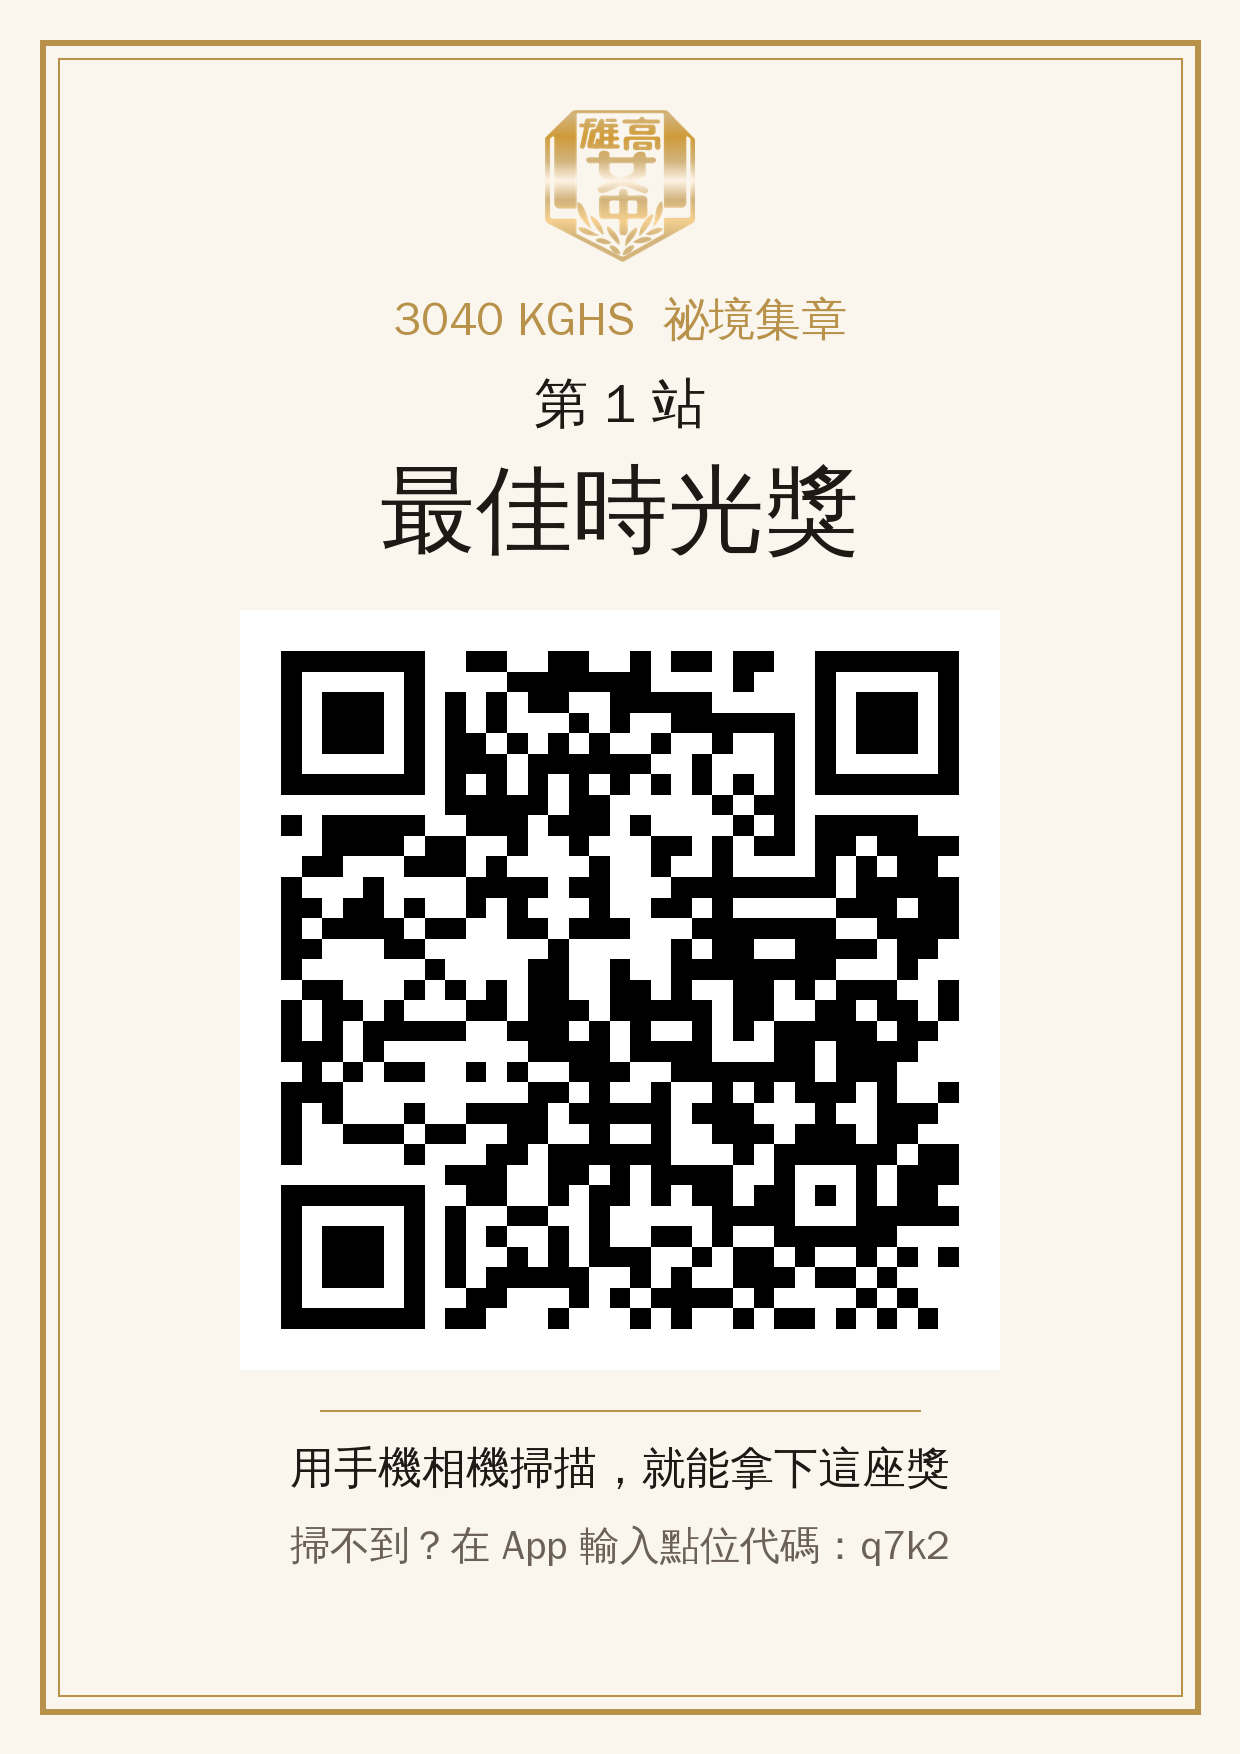
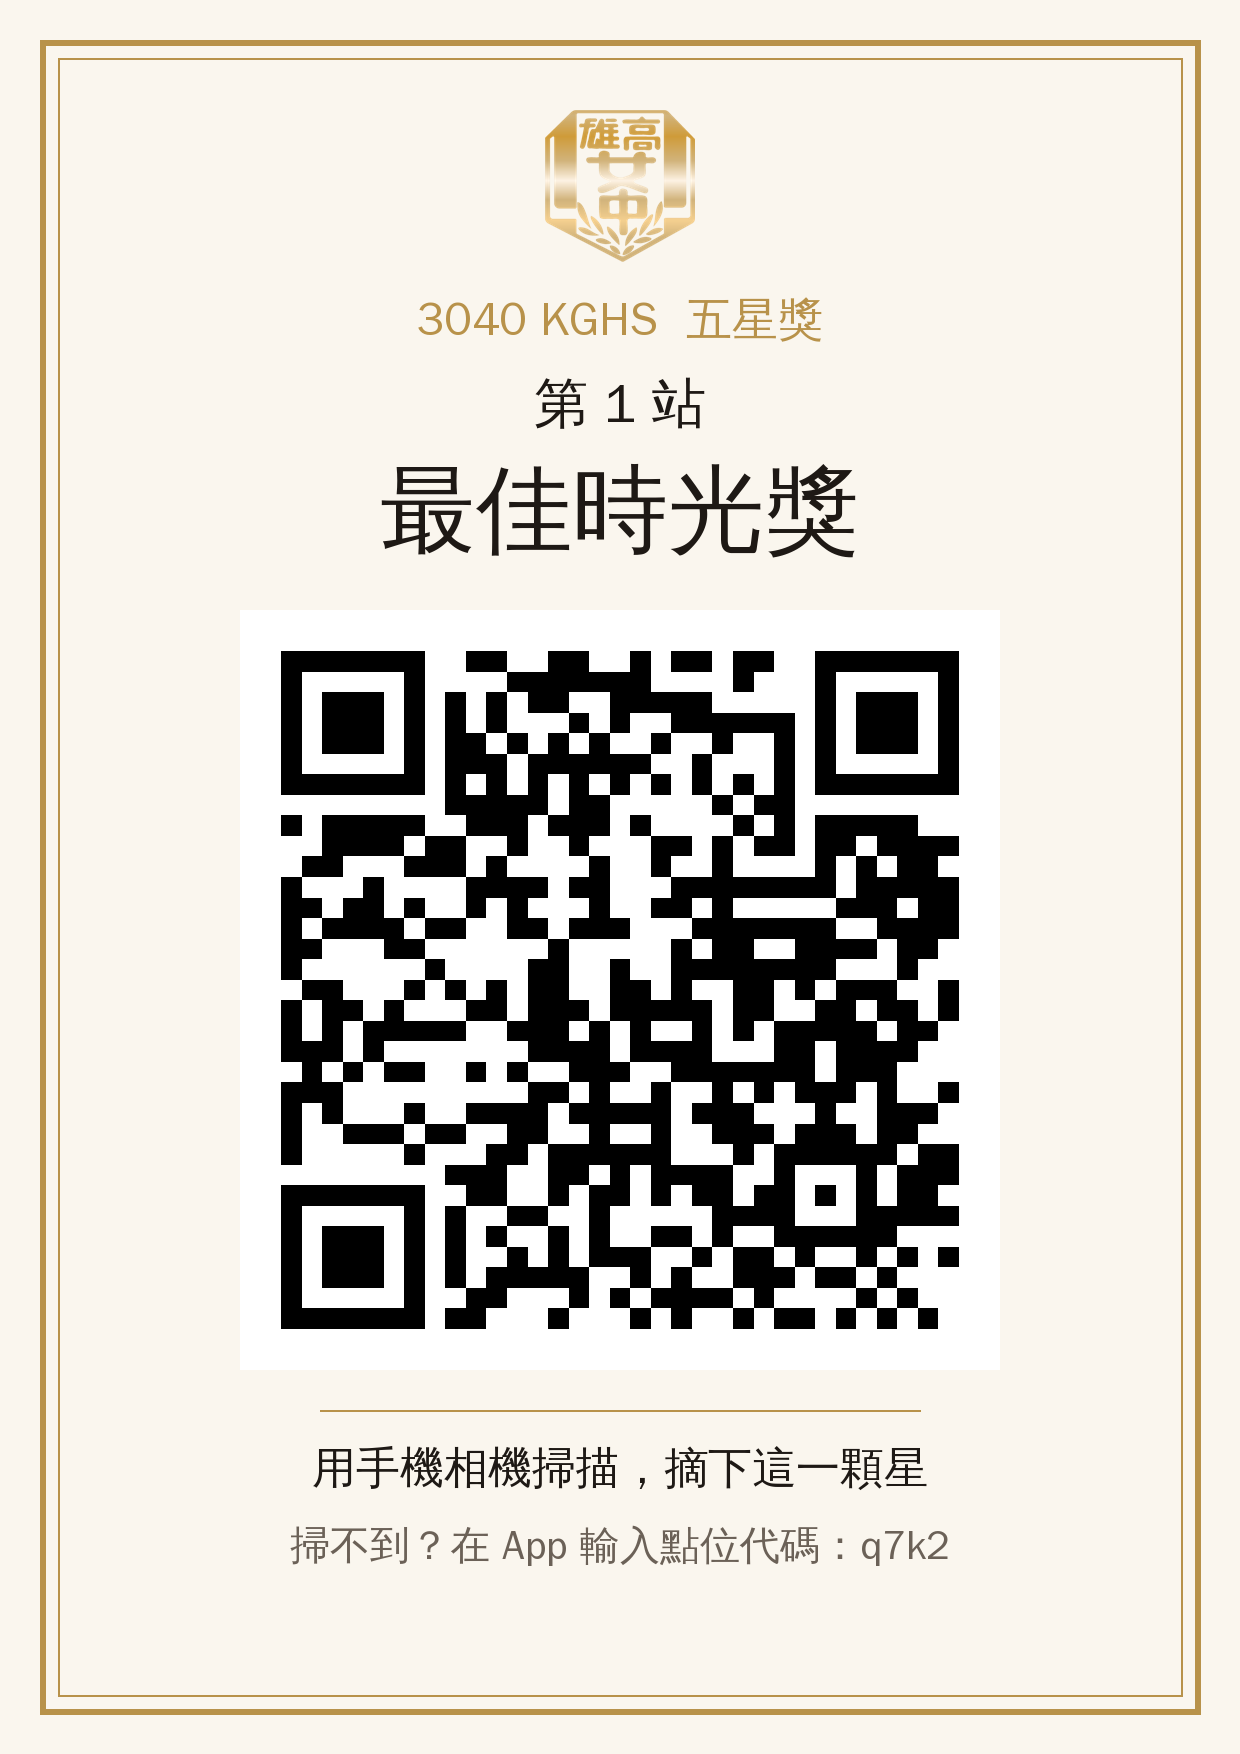
改成「五星獎」：開場改為女明星紅毯受訪，提示卡文字改寫
- 開場與結尾劇情改成記者訪問入圍女星，請她用照片回憶校園
- 五座獎改稱五星獎（已摘 n 顆星、摘齊五星），入場券、投影牆、QR 海報同步
- 五張提示卡的謎題與提示換新說法
- 還沒報名時開場的稱呼改為「大明星」

Claude-Session: https://claude.ai/code/session_01VouWjXPYsq8nRvDbBhYCw6

Changed region(s): [[0.3371, 0.1539, 0.6742, 0.2155], [0.2452, 0.8005, 0.4903, 0.862], [0.521, 0.8005, 0.7661, 0.862]]

diff --git a/public/index.html b/public/index.html
@@ -548,7 +548,7 @@ body.busy{overflow:hidden}
       <div class="cv-content">
         <p class="cv-year" id="cvYear">2026 雄女校友回娘家</p>
         <div class="cv-crest"><svg class="cv-laurel l" viewBox="0 0 60 140" aria-hidden="true"><g fill="none" stroke="#C9A158" stroke-width="2.2" stroke-linecap="round"><path d="M46 136C18 112 10 70 30 8"/></g><g fill="#C9A158"><ellipse cx="30" cy="16" rx="4.2" ry="10" transform="rotate(10 30 16)"/><ellipse cx="22" cy="30" rx="4.2" ry="10" transform="rotate(-30 22 30)"/><ellipse cx="36" cy="32" rx="4.2" ry="10" transform="rotate(40 36 32)"/><ellipse cx="17" cy="48" rx="4.2" ry="10" transform="rotate(-38 17 48)"/><ellipse cx="31" cy="52" rx="4.2" ry="10" transform="rotate(38 31 52)"/><ellipse cx="15" cy="68" rx="4.2" ry="10" transform="rotate(-42 15 68)"/><ellipse cx="29" cy="72" rx="4.2" ry="10" transform="rotate(34 29 72)"/><ellipse cx="17" cy="88" rx="4.2" ry="10" transform="rotate(-46 17 88)"/><ellipse cx="30" cy="92" rx="4.2" ry="10" transform="rotate(30 30 92)"/><ellipse cx="22" cy="108" rx="4.2" ry="10" transform="rotate(-52 22 108)"/><ellipse cx="35" cy="110" rx="4.2" ry="10" transform="rotate(24 35 110)"/><ellipse cx="31" cy="124" rx="4.2" ry="10" transform="rotate(-60 31 124)"/></g></svg><svg class="cv-laurel r" viewBox="0 0 60 140" aria-hidden="true"><g fill="none" stroke="#C9A158" stroke-width="2.2" stroke-linecap="round"><path d="M46 136C18 112 10 70 30 8"/></g><g fill="#C9A158"><ellipse cx="30" cy="16" rx="4.2" ry="10" transform="rotate(10 30 16)"/><ellipse cx="22" cy="30" rx="4.2" ry="10" transform="rotate(-30 22 30)"/><ellipse cx="36" cy="32" rx="4.2" ry="10" transform="rotate(40 36 32)"/><ellipse cx="17" cy="48" rx="4.2" ry="10" transform="rotate(-38 17 48)"/><ellipse cx="31" cy="52" rx="4.2" ry="10" transform="rotate(38 31 52)"/><ellipse cx="15" cy="68" rx="4.2" ry="10" transform="rotate(-42 15 68)"/><ellipse cx="29" cy="72" rx="4.2" ry="10" transform="rotate(34 29 72)"/><ellipse cx="17" cy="88" rx="4.2" ry="10" transform="rotate(-46 17 88)"/><ellipse cx="30" cy="92" rx="4.2" ry="10" transform="rotate(30 30 92)"/><ellipse cx="22" cy="108" rx="4.2" ry="10" transform="rotate(-52 22 108)"/><ellipse cx="35" cy="110" rx="4.2" ry="10" transform="rotate(24 35 110)"/><ellipse cx="31" cy="124" rx="4.2" ry="10" transform="rotate(-60 31 124)"/></g></svg><h1 class="cv-title">雄女<br>祕境集章</h1></div>
-        <p class="cv-sub">頒獎典禮</p>
+        <p class="cv-sub">五星獎頒獎典禮</p>
         <div class="cv-rule"></div>
         <p class="cv-awards" id="cvAwards"></p>
         <p class="cv-date" id="cvDate"></p>
@@ -562,7 +562,7 @@ body.busy{overflow:hidden}
     <div class="cover">
       <p class="hello">2026 雄女校友回娘家</p>
       <h1>雄女<br>祕境集章</h1>
-      <p class="lede">今晚有一場只屬於妳們的頒獎典禮。五座獎藏在校園五個角落，找到它、拍一張照、留一句話，就拿下這座獎。集滿五座，就能領到典禮入場券。</p>
+      <p class="lede">今晚，妳是「五星獎」的入圍女星。五顆星藏在校園五個角落，找到它、拍一張照、留一句得獎感言，就摘下一顆星。摘齊五星，就能領到典禮入場券。</p>
       <div class="joincard">
         <label class="field"><span>怎麼稱呼妳？</span><input type="text" id="jName" maxlength="12" autocomplete="nickname" placeholder="例如：小美"></label>
         <label class="field"><span>妳是第幾屆畢業？</span><input type="number" id="jCls" inputmode="numeric" min="1" max="200" placeholder="例如：45"></label>
@@ -787,29 +787,31 @@ const CONFIG = {
   // 提示卡：riddle 是正面的謎題，hint 是翻到背面的提示；name 是找到之後才顯示的地點名稱；id 與 key 會寫進現場 QR Code 網址
   // presets 是「不想拍照」時可以選的照片（放在 assets/presets 資料夾）
   spots: [
-    { id:'s1', award:'最佳時光獎', key:'q7k2', stamp:'門', name:'校門口', riddle:'鐘聲迴響之地', hint:'每天清晨，大家都從這裡走進雄女。',
+    { id:'s1', award:'最佳時光獎', key:'q7k2', stamp:'門', name:'校門口', riddle:'晨光報到處', hint:'每天早上第一個打招呼的地方，教官和糾察隊都在這裡等妳。',
       presets:['assets/presets/s1-1.jpg','assets/presets/s1-old.jpg'] },
-    { id:'s2', award:'最佳夢想獎', key:'m3x9', stamp:'科', name:'榕園', riddle:'科研繁茂之地', hint:'實驗中心旁那片榕樹綠蔭，以前有圓桌可以坐。',
+    { id:'s2', award:'最佳夢想獎', key:'m3x9', stamp:'科', name:'榕園', riddle:'綠蔭下的實驗室', hint:'實驗中心旁，老榕樹撐開一片綠蔭；圓桌邊吃過便當，也聊過夢想。',
       presets:['assets/presets/s2-1.jpg','assets/presets/s2-old.jpg'] },
-    { id:'s3', award:'最佳書香獎', key:'t8p4', stamp:'書', name:'圖書館', riddle:'書香盤繞之地', hint:'找找那座迴旋梯，書都住在那裡。',
+    { id:'s3', award:'最佳書香獎', key:'t8p4', stamp:'書', name:'圖書館', riddle:'旋轉而上的書海', hint:'沿著那座迴旋梯一路往上，晚自習的燈常常亮到很晚。',
       presets:['assets/presets/s3-1.jpg','assets/presets/s3-2.jpg','assets/presets/s3-old.jpg'] },
-    { id:'s4', award:'最佳人氣獎', key:'r2w6', stamp:'活', name:'學生活動中心', riddle:'熱鬧非凡之地', hint:'演講、社團、比賽都在這裡上演。',
+    { id:'s4', award:'最佳人氣獎', key:'r2w6', stamp:'活', name:'學生活動中心', riddle:'掌聲最響的舞台', hint:'社團成發、合唱比賽、週會演講，尖叫和掌聲都在這裡。',
       presets:['assets/presets/s4-1.jpg','assets/presets/s4-old.jpg'] },
-    { id:'s5', award:'最佳青春熱血獎', key:'h5n1', stamp:'體', name:'體育館', riddle:'青春熱血之地', hint:'流汗、打球、上體育課的地方。',
+    { id:'s5', award:'最佳青春熱血獎', key:'h5n1', stamp:'體', name:'體育館', riddle:'汗水飛揚的殿堂', hint:'排球、體育課、儀隊練習，青春的汗水都灑在這片地板上。',
       presets:['assets/presets/s5-1.jpg','assets/presets/s5-old.jpg'] }
   ],
   // 開場與結尾劇情：一個 { } 是一頁；icon 用貼紙代號（trophy、reel、ticket、filmcam、gstar、rose、bell、camera…）；{name} 會換成玩家的稱呼
   story: {
     intro: [
-      { icon:'reel', text:'今晚的雄女，\n要辦一場只屬於妳們的頒獎典禮。' },
-      { icon:'ticket', text:'校園裡藏著五座獎，\n每一座都藏在妳們熟悉的地方：\n校門、圖書館、體育館……' },
-      { icon:'filmcam', text:'找到它們，\n拍一張現在的妳，\n留一句得獎感言。' },
-      { icon:'gstar', text:'不想入鏡也沒關係。\n當一次攝影師，\n拍下妳心中它最美的樣子。' },
-      { icon:'trophy', text:'五座獎都拿到，\n典禮的入場券\n就會交到妳手上。' }
+      { icon:'reel', text:'紅毯上閃光燈此起彼落，\n今晚的主角，\n是剛走進校門的妳。' },
+      { icon:'mic', text:'記者：「{name}，歡迎回到雄女！\n聽說妳是今晚\n「五星獎」的入圍女星？」' },
+      { icon:'filmcam', text:'「離開校園這麼多年，\n還記得當年最常待的地方嗎？\n校門口、圖書館、體育館……」' },
+      { icon:'camera', text:'「今晚不用多說，\n請用照片告訴我們：\n回到那個角落，拍下現在的妳。」' },
+      { icon:'gstar', text:'「五個角落藏著五顆星。\n每找到一處、拍一張照、\n說一句得獎感言，就摘下一顆。」' },
+      { icon:'ticket', text:'「摘齊五星，\n典禮的入場券就是妳的。\n準備好了嗎？」' }
     ],
-    introEnd: '進場',
+    introEnd: '走上紅毯',
     ending: [
-      { icon:'trophy', text:'校門、榕園、圖書館、\n活動中心、體育館，\n五座獎都頒給妳了。' },
+      { icon:'gstar', text:'校門、榕園、圖書館、\n活動中心、體育館，\n五顆星都被妳摘下了。' },
+      { icon:'mic', text:'記者：「最後一個問題，\n回到這裡，\n是什麼感覺？」' },
       { icon:'filmcam', text:'妳拍下的照片和得獎感言，\n今晚會在典禮現場放映。' },
       { icon:'rose', text:'{name}，\n歡迎回家。' }
     ],
@@ -948,7 +950,7 @@ function scanSpot(id,k){
   S.scanned[id]=true; save();
   show('home'); renderHome();
   try{ sfx.stamp(); }catch(_){}
-  modal(`<div class="unlock-stamp">${s.stamp}</div>${s.award?`<p class="unlock-award">${esc(s.award)}</p>`:''}<h2 style="text-align:center">${again?'這座獎妳已經拿到了':'入圍了！'}</h2><p style="text-align:center">「${esc(s.name)}」${again?'要重拍一次嗎？':'找到了。拍一張照、留一句感言，就能拿下這座獎'}</p>`,
+  modal(`<div class="unlock-stamp">${s.stamp}</div>${s.award?`<p class="unlock-award">${esc(s.award)}</p>`:''}<h2 style="text-align:center">${again?'這顆星妳已經摘下了':'入圍了！'}</h2><p style="text-align:center">「${esc(s.name)}」${again?'要重拍一次嗎？':'找到了。拍一張照、留一句感言，就能摘下這顆星'}</p>`,
     [{label: again ? '重拍這一站' : '開始拍照', fn:()=>openEditor(id)}, {label:'等一下再拍', soft:true}]);
   return true;
 }
@@ -1246,7 +1248,7 @@ let ST=null;
 const stickerUri=k=>(STICKERS.find(s=>s.k===k)||{}).uri;
 function playStory(which, done){ ST={ pages:CONFIG.story[which], end:CONFIG.story[which+'End'], i:0, done }; show('story'); renderScene(); }
 function renderScene(){
-  const pg=ST.pages[ST.i], name=S ? S.player.name : '測試校友';
+  const pg=ST.pages[ST.i], name=S ? S.player.name : '大明星';
   const text=esc(pg.text).replace(/\{name\}/g, `<span class="who">${esc(name)}</span>`).replace(/\n/g,'<br>');
   const sc=$('#scene'); sc.innerHTML=`${pg.icon && stickerUri(pg.icon) ? `<img src="${stickerUri(pg.icon)}" alt="">` : ''}<p>${text}</p>`;
   sc.style.animation='none'; void sc.offsetWidth; sc.style.animation='';
@@ -1269,14 +1271,14 @@ function renderHome(){
     <header class="pass">
       <div class="who">${esc(p.name)}</div>
       <div class="count">${n}<span> / ${spots.length}</span></div>
-      <div class="meta">第 ${esc(p.cls)} 屆　已獲 ${n} 座獎</div>
+      <div class="meta">第 ${esc(p.cls)} 屆　已摘 ${n} 顆星</div>
     </header>
     <div class="syncbar" id="syncBar" hidden><span id="syncText"></span><button class="btn soft small" data-act="retry">立即重試</button></div>
     <div class="who-row"><span class="tiny" style="margin:0">找回進度用：末三碼 ${esc(p.l3)}</span><button class="btn soft small" data-act="logout">不是妳？</button></div>
-    <div class="stamps" aria-label="已獲 ${n} / ${spots.length} 座獎">${spots.map(s=>`<div class="slot ${S.done[s.id]?'on':''} ${justStamped===s.id?'thump':''}">${s.stamp}</div>`).join('')}</div>
+    <div class="stamps" aria-label="已摘 ${n} / ${spots.length} 顆星">${spots.map(s=>`<div class="slot ${S.done[s.id]?'on':''} ${justStamped===s.id?'thump':''}">${s.stamp}</div>`).join('')}</div>
     <section class="clues" aria-label="提示卡"><h2 class="clues-h">提示卡<span>點一下翻面</span></h2><div class="clue-row">${spots.map(clueHTML).join('')}</div></section>
-    ${n===0 ? `<section class="howto"><h2>怎麼玩</h2><ol><li>翻開上面的提示卡，猜猜五個地點在校園哪裡</li><li>走到那裡，點下方的「${ic('scan')} 掃描 QR Code」，對準牆上的圖案</li><li>拍自己、拍合照，或當攝影師拍下懷念的風景，再留一句得獎感言，就拿下這座獎</li></ol><button class="linkbtn" data-act="intro">再看一次開場故事</button></section>` : ''}
-    ${n===spots.length ? `<section class="unlock"><h2>五座獎都拿到了</h2><p>典禮入場券準備好了，聚餐地點寫在裡面。</p><button class="btn white wide" data-act="invite">打開入場券</button><p class="center"><button class="linkbtn" style="color:#fff" data-act="ending">重看結尾故事</button></p></section>` : ''}
+    ${n===0 ? `<section class="howto"><h2>怎麼玩</h2><ol><li>翻開上面的提示卡，猜猜五個地點在校園哪裡</li><li>走到那裡，點下方的「${ic('scan')} 掃描 QR Code」，對準牆上的圖案</li><li>拍自己、拍合照，或當攝影師拍下懷念的風景，再留一句得獎感言，就摘下這一顆星</li></ol><button class="linkbtn" data-act="intro">再看一次開場故事</button></section>` : ''}
+    ${n===spots.length ? `<section class="unlock"><h2>五星獎全部到手</h2><p>典禮入場券準備好了，聚餐地點寫在裡面。</p><button class="btn white wide" data-act="invite">打開入場券</button><p class="center"><button class="linkbtn" style="color:#fff" data-act="ending">重看結尾故事</button></p></section>` : ''}
     <section class="spots">${spots.map(spotHTML).join('')}</section>`;
   justStamped=null; syncBanner();
 }
@@ -1291,7 +1293,7 @@ function clueHTML(s,i){
 function spotHTML(s){
   const d=S.done[s.id], sc=S.scanned[s.id], known=d||sc;
   let foot;
-  if(d) foot=`<div class="done"><img src="${d.thumb||d.img}" alt="在${esc(s.name)}拍的照片"><div><p class="status ok">已得獎　<span class="syncst ${d.sync||'sent'}">${({queued:'等待上傳',sending:'上傳中…',sent:'已上傳 '+ic('check'),failed:'上傳失敗，請洽工作人員'})[d.sync||'sent']}</span></p>${d.kind==='scene'?`<p class="work">${ic('camera')} 攝影作品${d.title?`《${esc(d.title)}》`:''}</p>`:''}${d.kind==='note'?`<p class="work">${ic('note')} 便利貼祝福</p>`:''}${d.hand?`<img class="said-hand" src="${d.hand}" alt="手寫留言">`:`<p class="said">「${esc(d.msg)}」</p>`}<button class="btn soft small" data-act="shoot" data-id="${s.id}">重拍</button></div></div>`;
+  if(d) foot=`<div class="done"><img src="${d.thumb||d.img}" alt="在${esc(s.name)}拍的照片"><div><p class="status ok">已摘星　<span class="syncst ${d.sync||'sent'}">${({queued:'等待上傳',sending:'上傳中…',sent:'已上傳 '+ic('check'),failed:'上傳失敗，請洽工作人員'})[d.sync||'sent']}</span></p>${d.kind==='scene'?`<p class="work">${ic('camera')} 攝影作品${d.title?`《${esc(d.title)}》`:''}</p>`:''}${d.kind==='note'?`<p class="work">${ic('note')} 便利貼祝福</p>`:''}${d.hand?`<img class="said-hand" src="${d.hand}" alt="手寫留言">`:`<p class="said">「${esc(d.msg)}」</p>`}<button class="btn soft small" data-act="shoot" data-id="${s.id}">重拍</button></div></div>`;
   else if(sc) foot=`<p class="status ok">找到了！可以拍照了</p><button class="btn wide" data-act="shoot" data-id="${s.id}">去拍照</button>`;
   else foot=`<button class="btn soft wide scanbtn" data-sc="open">${ic('scan')} 到了！掃描 QR Code</button>`;
   return `<article class="spot ${d?'won':''}">${s.award?`<p class="award">${esc(s.award)}</p>`:''}<div class="head"><span class="mark">${s.stamp}</span><h3 class="${known?'':'unknown'}">${known?esc(s.name):'？？？'}</h3></div><p class="riddle">${esc(s.riddle)}</p>${foot}</article>`;
@@ -2411,15 +2413,15 @@ async function openInvite(){
   g.strokeStyle='rgba(217,189,126,.45)'; g.lineWidth=1.5; g.strokeRect(56,56,IW-112,IH-112);
   g.textAlign='center'; g.textBaseline='alphabetic';
   g.fillStyle=GOLD; g.font=`500 34px ${NF}`; g.fillText(`${new Date().getFullYear()}　${CONFIG.eventName}`, IW/2, 170);
-  g.fillStyle=IVORY; g.font=`900 150px ${SF}`; g.fillText('頒獎典禮', IW/2, 345);
+  g.fillStyle=IVORY; g.font=`900 150px ${SF}`; g.fillText('五星獎', IW/2, 345);
   g.fillStyle=GOLD; g.font=`600 58px ${SF}`; g.fillText('入　場　券', IW/2, 435);
   g.fillStyle=GOLD2; ornament(g,'diamond',IW/2-215,416,12,-1); ornament(g,'diamond',IW/2+215,416,12,1);
   // 致詞
   g.fillStyle=IVORY; g.font=`600 52px ${SF}`; g.fillText(`敬邀　${p.name}`, IW/2, 540);
   g.fillStyle='#C9BBA5'; g.font=`400 34px ${NF}`;
-  g.fillText(`妳拿下了校園裡的 ${spots.length} 座獎。`, IW/2, 600);
+  g.fillText('五顆星，妳全都摘下了。', IW/2, 600);
   g.fillText('歡迎回家，今晚的典禮為妳留了位子。', IW/2, 650);
-  // 底片條：五座獎的照片
+  // 底片條：五顆星的照片
   const fy=705, fh=300; g.fillStyle='#050403'; g.fillRect(56,fy,IW-112,fh);
   g.fillStyle='#2E2620'; for(let x=74;x<IW-80;x+=44){ rr(g,x,fy+14,24,18,4); g.fill(); rr(g,x,fy+fh-32,24,18,4); g.fill(); }
   const imgs=await Promise.all(spots.map(s=>S && S.done[s.id] ? loadImg(S.done[s.id].thumb||S.done[s.id].img) : null));

diff --git a/public/wall.html b/public/wall.html
@@ -382,7 +382,7 @@ function people(){ const m=new Map(); items.forEach(x=>{ const k=x.cls+'|'+x.nam
 function renderStats(){
   const m=people(), done=[...m.values()].filter(s=>s.size>=CONFIG.spots.length).length;
   const pl = PRE.total && PRE.done<PRE.total ? `<span class="stat" title="背景預先載入照片">${ic('hourglass')} 預載 <b>${PRE.done}</b>/ ${PRE.total}</span>` : '';
-  $('#stats').innerHTML=`${pl}<span class="stat"><b>${m.size}</b>位校友參加</span><span class="stat"><b>${done}</b>位拿下五座獎</span><span class="stat"><b>${items.length}</b>張照片</span>`;
+  $('#stats').innerHTML=`${pl}<span class="stat"><b>${m.size}</b>位校友參加</span><span class="stat"><b>${done}</b>位摘齊五星</span><span class="stat"><b>${items.length}</b>張照片</span>`;
 }
 /* 預先載入：開頁後在背景把所有照片的牆面版與小圖下載好（同時 6 張），播放時就不會出現空格。
    載入過的圖片瀏覽器會快取，之後輪播不再耗流量。 */
